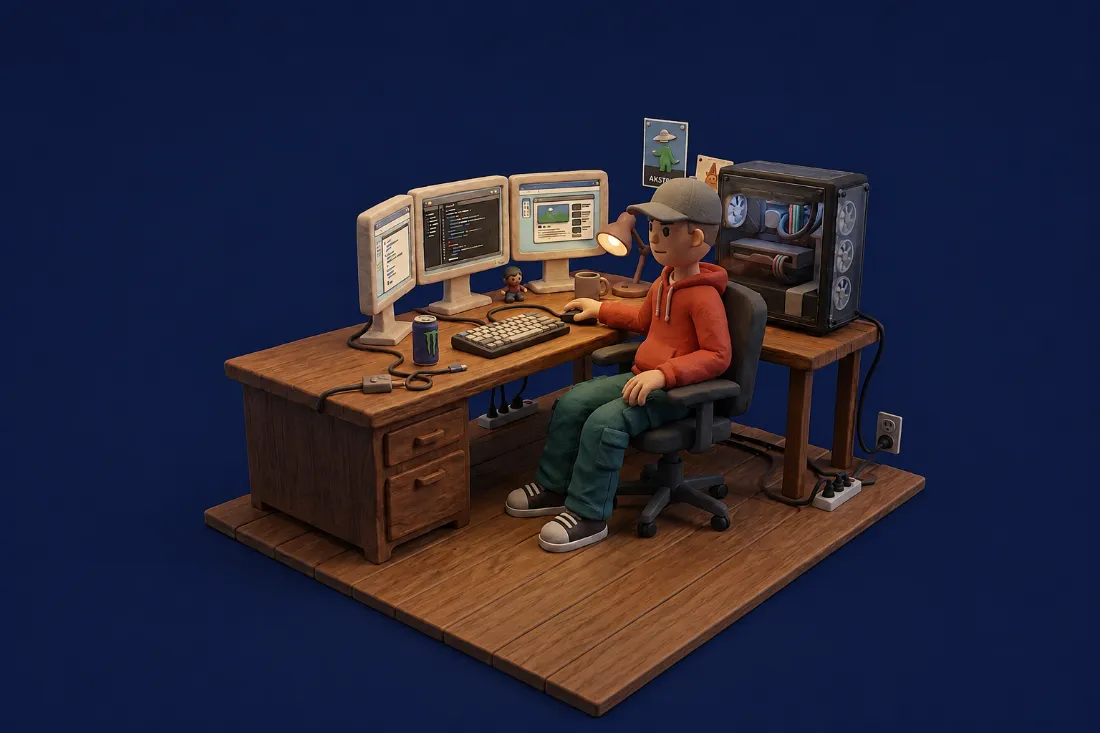
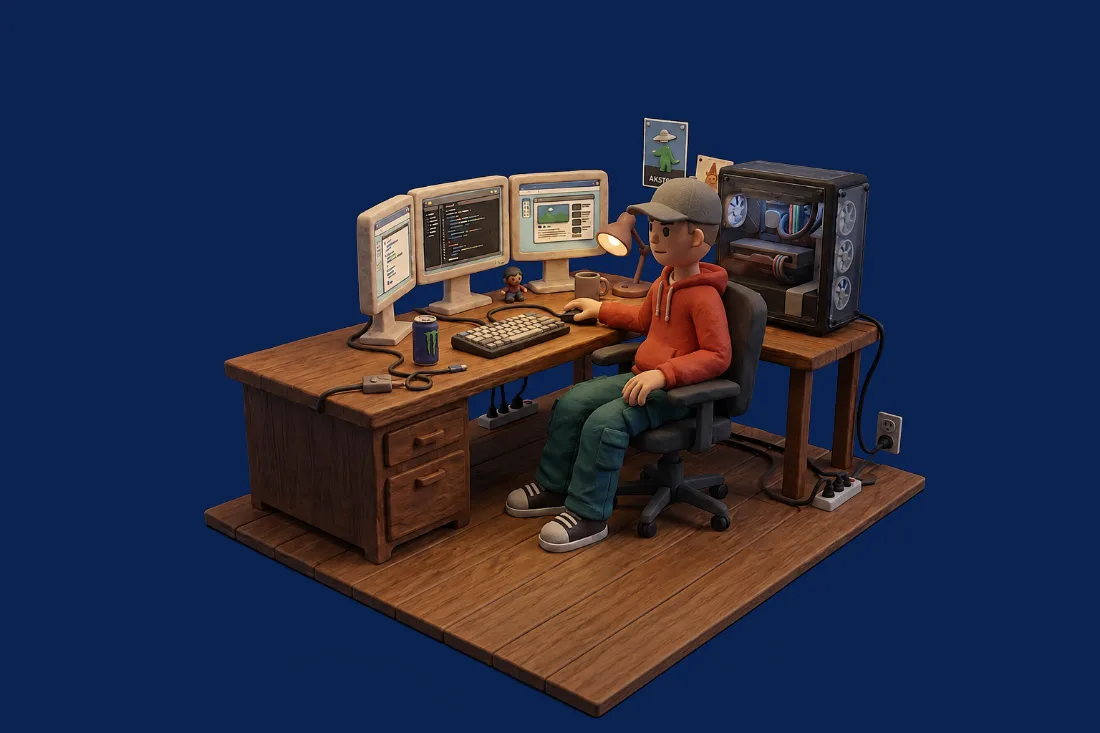
Funde la ilustracion de El estudio con la franja
El fondo del propio archivo se aplana al valor exacto de --azul (#0b2350):
67 % de los pixeles, con rampa de 14 a 28 de distancia para los bordes
antidentado. Asi el rectangulo no tiene canto que ver, y el marco con su
filete y su fondo sobra: fuera .marco--retrato, entra .ilustracion, que solo
dice ancho 100 % y alto automatico.

Las dos alternativas se probaron y las dos fallan, y quedan apuntadas en el
§5: mix-blend-mode lighten casa el fondo al pixel pero toca el 30 % del
dibujo y aplana los oscuros de la silla y de la torre; y un desvanecido por
mascara no cabe, porque la peana del diorama llega al 98 % del alto.

El codificador webp no devuelve el color que le das: el borde decodifica a
+-1 por canal, y compensar el desvio a mano lo empeora a +-2. Se deja el
valor exacto.

Medido: peor desvio del borde contra la franja, 1 sobre 255. Sin desbordes a
390 ni en escritorio. 50.118 bytes, 3,4 KB mas que antes. detect.mjs en
exit 0.

diff --git a/assets/css/estilos.css b/assets/css/estilos.css
@@ -686,13 +686,16 @@ body {
   object-position: 50% 0;
 }
 
-/* El marco del retrato de /sobre-mi. No fija proporción: la imagen ya se
-   conoce y no hay captura que esperar, así que manda ella y no el 4:3 que el
-   escaparate necesita para reservar el hueco. Y sin los márgenes que .marco
-   trae de la portada, que allí separan el marco del borde del escaparate y
-   aquí solo descuadran la columna. */
-.marco--retrato { margin: 0; aspect-ratio: auto; }
-.marco--retrato img { height: auto; }
+/* La ilustración de /sobre-mi va sin marco: ni filete, ni fondo, ni recorte.
+   Estuvo en un .marco--retrato y se retiró el 01/09/2026, porque lo que se
+   pide de ella es que se funda con la franja y un marco es justo lo contrario.
+   Lo que la funde no es CSS: es que el fondo del archivo se aplanó al valor
+   exacto de --azul (#0b2350). Ver §5. */
+.ilustracion {
+  display: block;
+  width: 100%;
+  height: auto;
+}
 
 /* La persiana cubre el marco hasta que hay algo que enseñar. */
 .persiana {

diff --git a/sobre-mi.html b/sobre-mi.html
@@ -173,11 +173,9 @@
            .marco fija para el escaparate. Su azul de fondo no es el de la
            franja —#0b163c contra #0b2350—, y por eso lleva filete: sin él, el
            rectángulo se leería como un descuadre en vez de como un cuadro. -->
-      <div class="marco marco--retrato">
-        <img src="assets/img/fotoyo.webp"
-             alt="Ilustración del estudio: una persona programando en su escritorio ante tres pantallas, con la torre del ordenador en la mesa de al lado."
-             width="1100" height="733" fetchpriority="high" decoding="async">
-      </div>
+      <img class="ilustracion" src="assets/img/fotoyo.webp"
+           alt="Ilustración del estudio: una persona programando en su escritorio ante tres pantallas, con la torre del ordenador en la mesa de al lado."
+           width="1100" height="733" fetchpriority="high" decoding="async">
     </div>
   </section>
 

diff --git a/CLAUDE.md b/CLAUDE.md
@@ -108,7 +108,8 @@ assets/img/codigofoto.webp El fondo de la cabecera de /diseno-web. 1200x800,
 assets/img/fotobarrio.webp El fondo de la portada: el barrio isometrico.
                           1800x829, 137 KB. Ver §5
 assets/img/fotoyo.webp    La ilustración del escritorio, en la cabecera de
-                          /sobre-mi. 1100x733, 46 KB
+                          /sobre-mi. 1100x733, 49 KB. Fondo aplanado a --azul
+                          para que no se le vea el borde. Ver §5
 _fotobarrio-original.jfif Los originales de las dos anteriores, 2,6 MB y 2,0 MB.
 _fotoyo-original.png      Se versionan pero no se publican. Ver §5
 _modelo-caseta.glb        El modelo 3D del que salen. No se publica
@@ -357,6 +358,20 @@ No las vuelvas a pisar; todas están comprobadas midiendo, no a ojo.
   se la come al nombrarla, aunque el identificador de la propiedad sí la lleve.
   Comprobado leyendo `document.cookie`; casi todas las políticas que se copian
   por ahí la escriben mal.
+- **La ilustración de /sobre-mi se funde con la franja por el archivo, no por
+  CSS.** El fondo del WebP está aplanado al valor exacto de `--azul` (#0b2350):
+  67 % de los píxeles, con una rampa de 14 a 28 de distancia para los bordes
+  antidentado. Así el rectángulo no tiene canto que ver y no hace falta ni
+  marco ni máscara. Las dos alternativas se probaron y las dos fallan:
+  `mix-blend-mode: lighten` casa el fondo al píxel —es más oscuro que la franja
+  en los tres canales— pero toca el 30 % del dibujo y aplana los oscuros de la
+  silla y de la torre; y un desvanecido por máscara no cabe, porque la peana del
+  diorama llega al 98 % del alto y se la comería.
+  **El codificador WebP no devuelve el color que le das:** con destino #0b2350
+  el borde decodifica a ±1 por canal, y compensar el desvío a mano (#0c234f) lo
+  empeora a ±2. Se deja el valor exacto; ±1 sobre 255 no se ve.
+  Si algún día cambia `--azul`, hay que volver a generar el archivo: el fondo
+  está cocido dentro y no lo sigue ninguna variable.
 - **`404.html` enlaza sus assets con barra inicial, y ahí no es cosmético.** El
   hosting sirve ese archivo desde la dirección que pidió el visitante, no desde
   la raíz. Con rutas relativas, un 404 en `/blog/algo/x` pedía

diff --git a/DESIGN.md b/DESIGN.md
@@ -112,8 +112,15 @@ lectura acotada a 34–44rem según el bloque.
   Las imágenes del sitio son tres, y las tres son ilustraciones 3D de la
   misma familia que la maqueta: el barrio de la portada, el código de
   Servicios y el escritorio de la cabecera de El estudio, esta última dentro
-  de un `.marco--retrato`. Todo lo demás son motivos de CSS o capturas de
+  sin marco de ninguna clase. Todo lo demás son motivos de CSS o capturas de
   webs de verdad.
+
+- **La ilustración de El estudio no lleva marco: se funde con la franja.** El
+  fondo del propio archivo está aplanado al valor exacto de `--azul` (#0b2350),
+  así que el rectángulo de la imagen no tiene borde que ver. No es un
+  `mix-blend-mode` ni una máscara: probados los dos, el primero se come los
+  oscuros del dibujo —la silla y la torre— y la segunda no vale porque la peana
+  del diorama llega al 98 % del alto y un desvanecido por abajo se la corta.
 
 ## Los motivos
 
